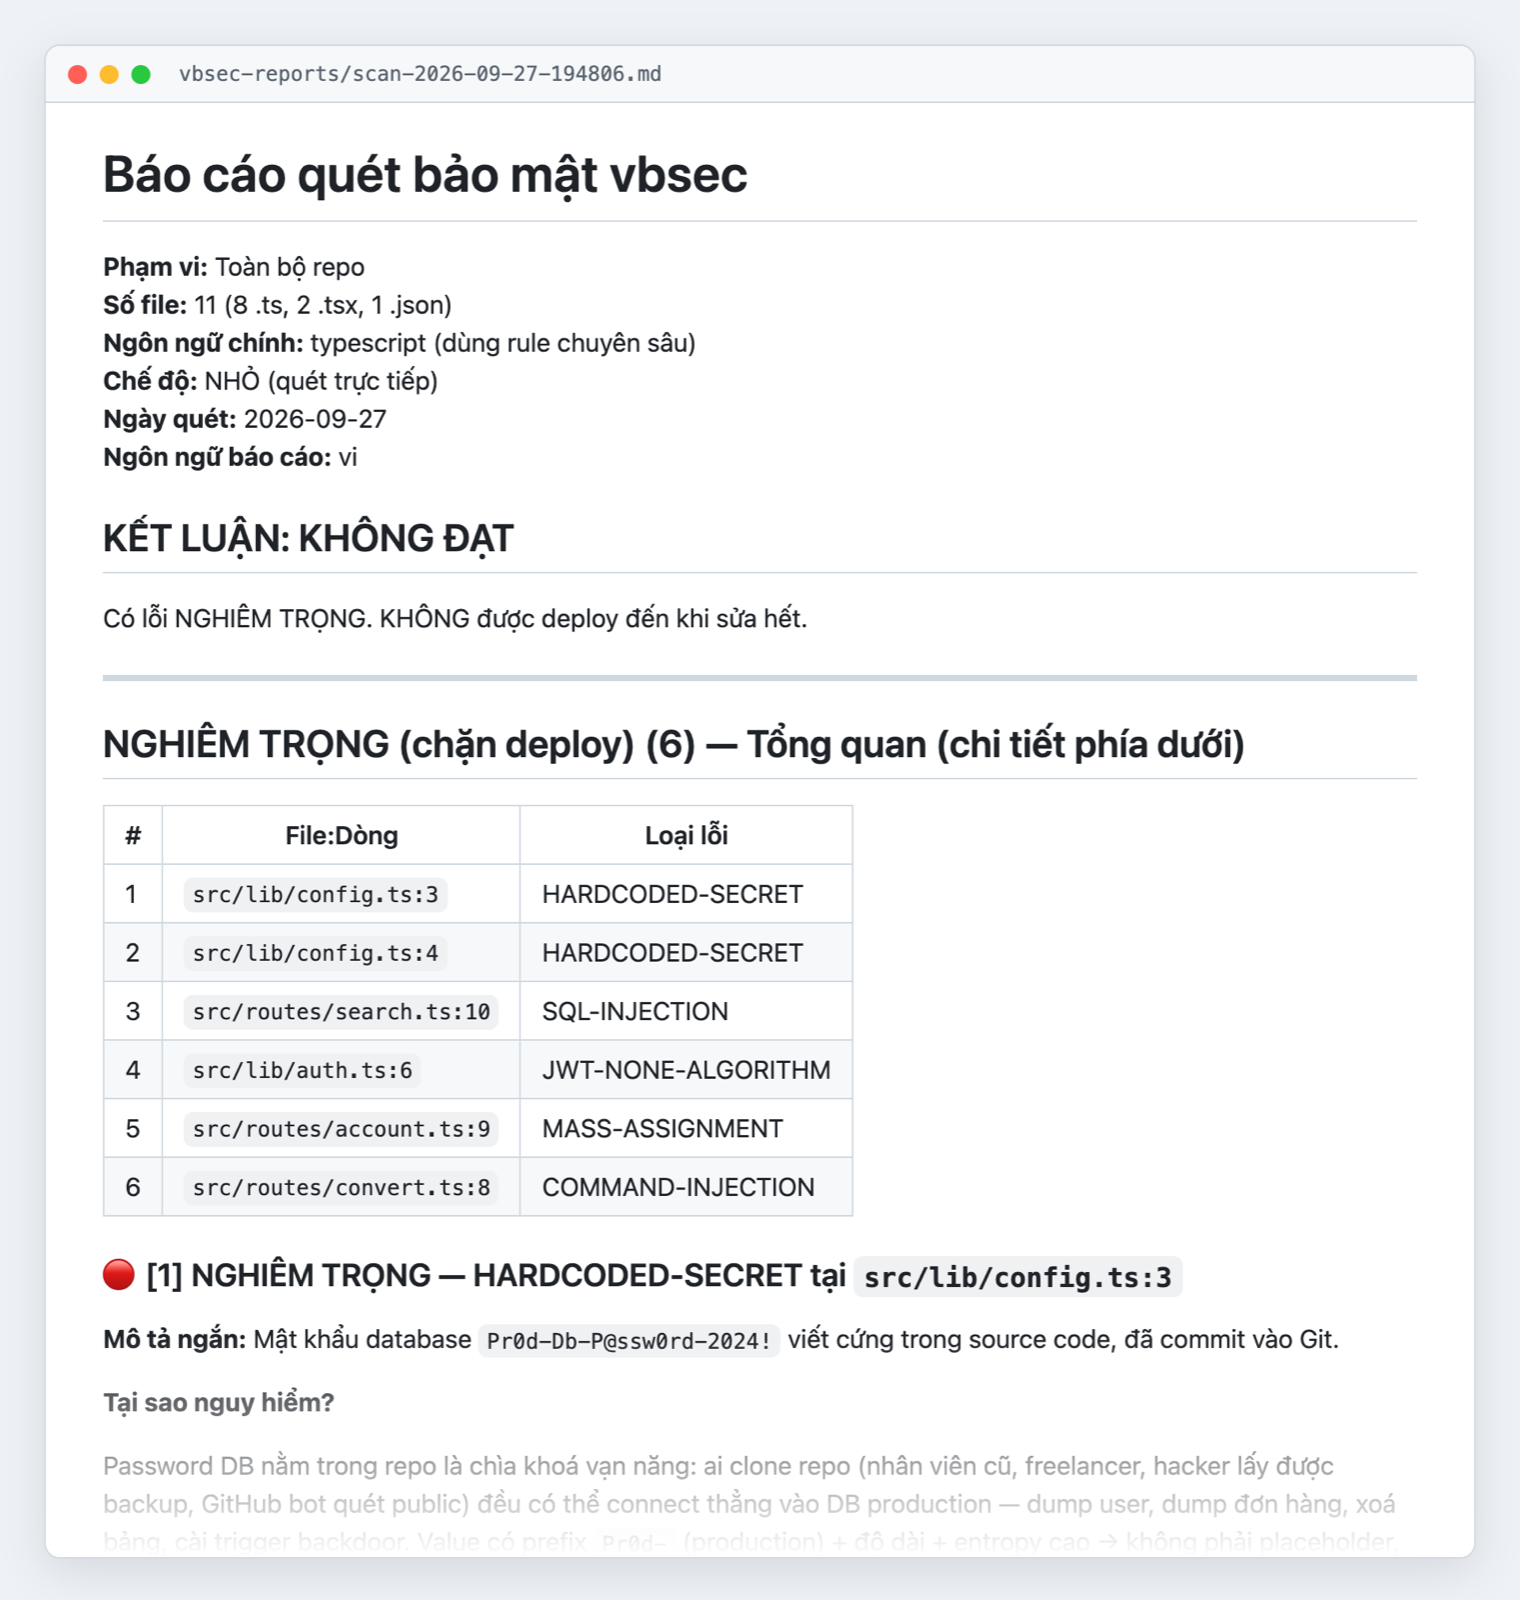
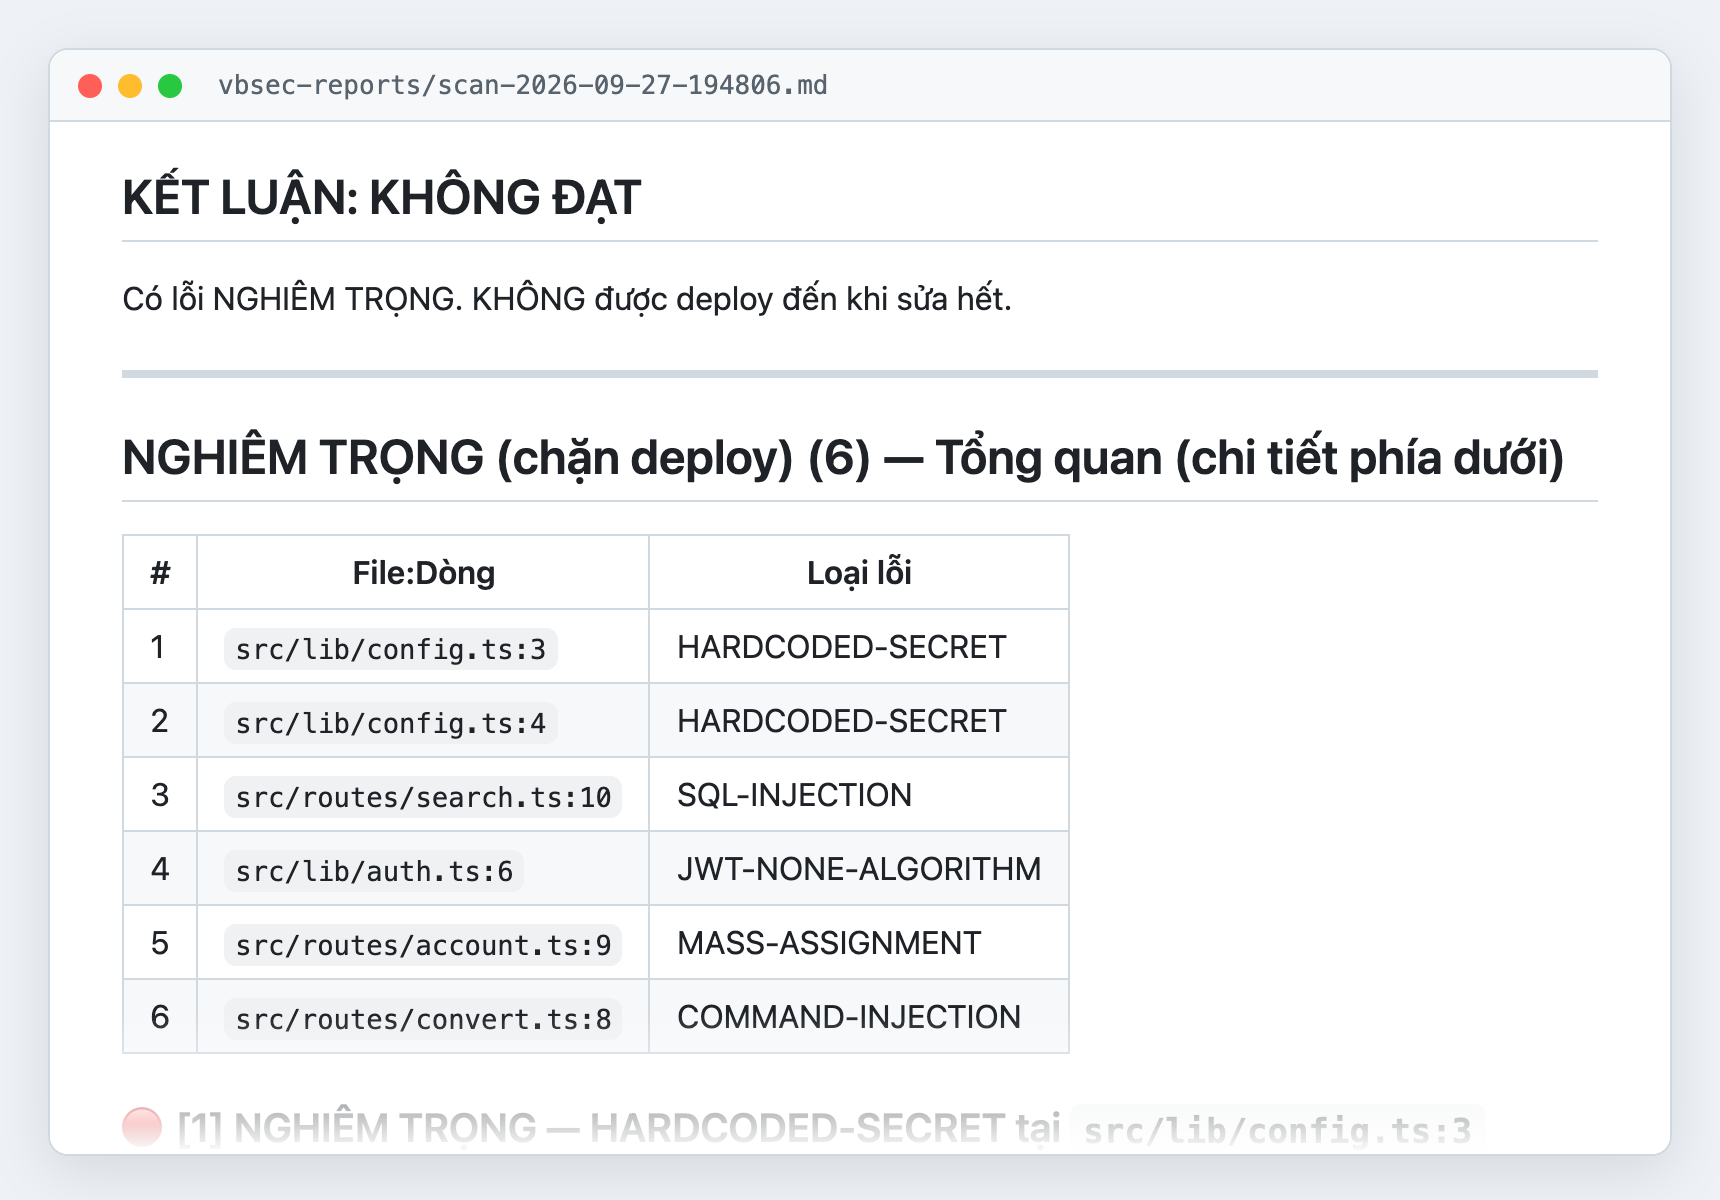
docs: thu gọn ảnh đầu README thành khung ngang

Changed region(s): [[0.0309, 0.0308, 0.9895, 0.9867]]

diff --git a/README.vi.md b/README.vi.md
@@ -18,7 +18,7 @@
 </p>
 
 <p align="center">
-  <a href="docs/examples/bao-cao-mau.md"><img src="docs/images/bao-cao-mau.png" alt="Báo cáo vbsec: kết luận FAIL, bảng lỗi nghiêm trọng, giải thích từng lỗi" width="860"></a><br>
+  <a href="docs/examples/bao-cao-mau.md"><img src="docs/images/bao-cao-mau.png" alt="Báo cáo vbsec: kết luận KHÔNG ĐẠT, bảng 6 lỗi nghiêm trọng" width="760"></a><br>
   <sub>Báo cáo thật khi quét một app Express + React mẫu. Bấm vào ảnh để đọc bản đầy đủ.</sub>
 </p>
 
